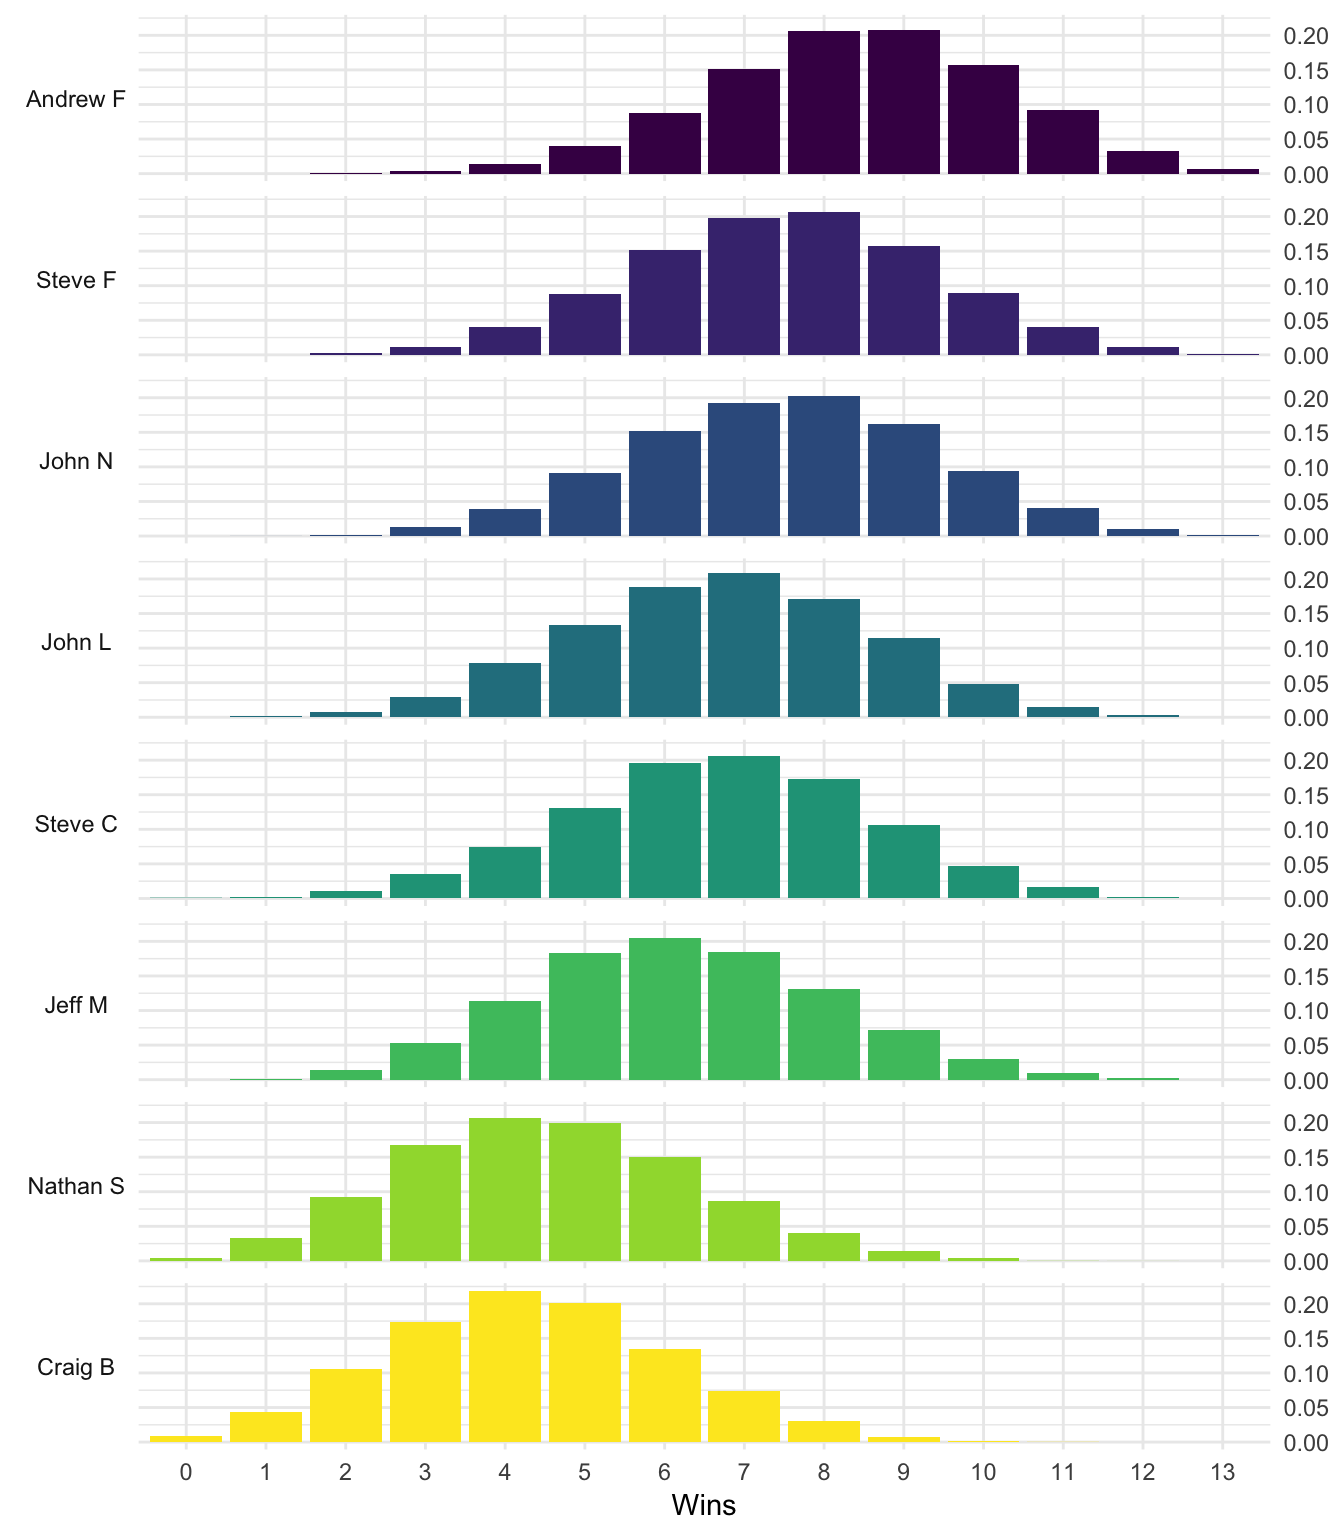
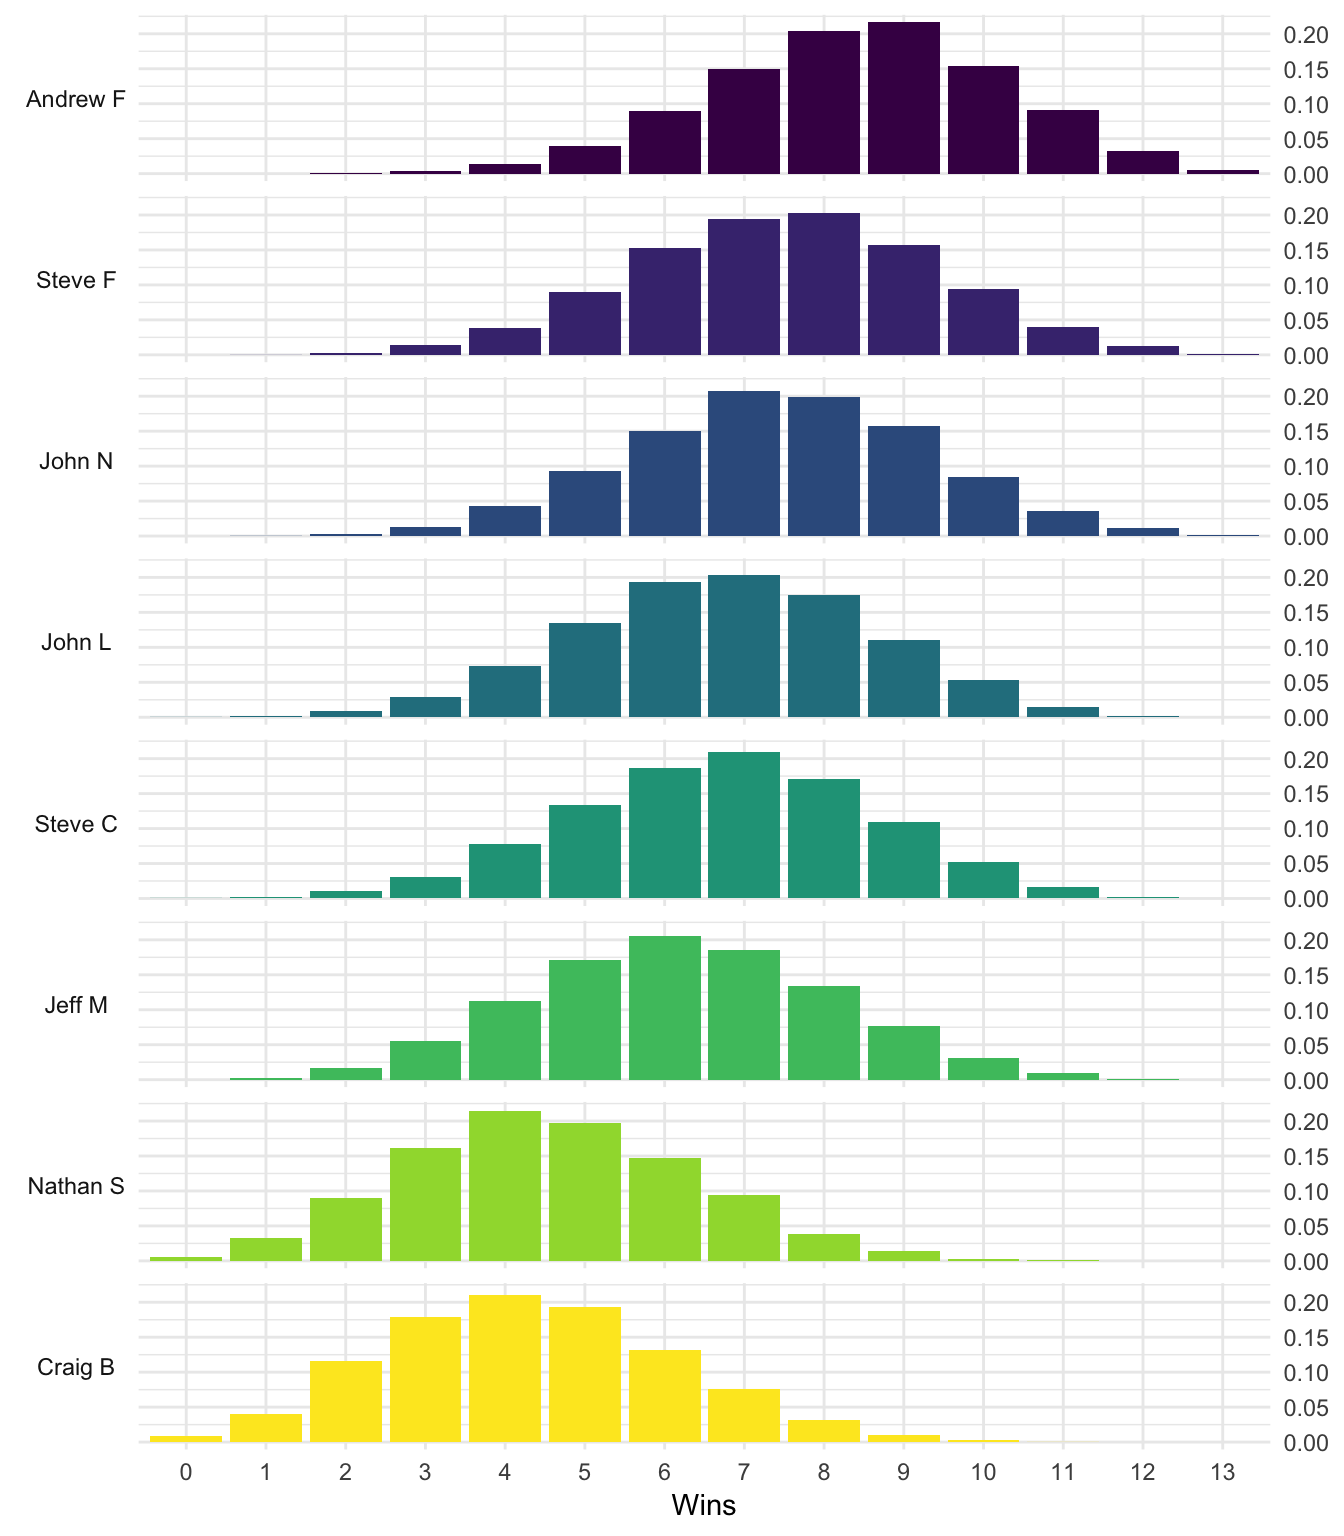
Tweak to simulation, reposting 2018 Week 1 update

diff --git a/content/post/2018-09-11-fantasy-football-elo-ratings-week-1-update.html b/content/post/2018-09-11-fantasy-football-elo-ratings-week-1-update.html
@@ -11,7 +11,7 @@ tags: []
 
 <div id="dashboard" class="section level2">
 <h2>Dashboard</h2>
-<p>Through 1 week, Andrew F is our most likely regular season champion, with a 43.52% chance of taking home the title.</p>
+<p>Through 1 week, Andrew F is our most likely regular season champion, with a 35% chance of taking home the title.</p>
 <table>
 <thead>
 <tr>
@@ -50,10 +50,10 @@ Andrew F
 1
 </td>
 <td style="text-align:center;">
-8.43
+8.44
 </td>
 <td style="text-align:center;">
-0.4352
+0.3496
 </td>
 </tr>
 <tr>
@@ -70,10 +70,10 @@ Steve C
 0
 </td>
 <td style="text-align:center;">
-6.70
+6.75
 </td>
 <td style="text-align:center;">
-0.1035
+0.1023
 </td>
 </tr>
 <tr>
@@ -90,10 +90,10 @@ John L
 0
 </td>
 <td style="text-align:center;">
-6.76
+6.77
 </td>
 <td style="text-align:center;">
-0.0870
+0.0994
 </td>
 </tr>
 <tr>
@@ -110,10 +110,10 @@ John N
 1
 </td>
 <td style="text-align:center;">
-7.51
+7.43
 </td>
 <td style="text-align:center;">
-0.1654
+0.1771
 </td>
 </tr>
 <tr>
@@ -133,7 +133,7 @@ Steve F
 7.51
 </td>
 <td style="text-align:center;">
-0.1537
+0.1827
 </td>
 </tr>
 <tr>
@@ -150,10 +150,10 @@ Jeff M
 1
 </td>
 <td style="text-align:center;">
-6.21
+6.23
 </td>
 <td style="text-align:center;">
-0.0454
+0.0711
 </td>
 </tr>
 <tr>
@@ -170,10 +170,10 @@ Nathan S
 0
 </td>
 <td style="text-align:center;">
-4.55
+4.56
 </td>
 <td style="text-align:center;">
-0.0062
+0.0096
 </td>
 </tr>
 <tr>
@@ -190,10 +190,10 @@ Craig B
 0
 </td>
 <td style="text-align:center;">
-4.32
+4.31
 </td>
 <td style="text-align:center;">
-0.0036
+0.0082
 </td>
 </tr>
 </tbody>

diff --git a/content/post/2015-12-22-solving-the-fivethirtyeight-puzzler-using-simulation.html b/content/post/2015-12-22-solving-the-fivethirtyeight-puzzler-using-simulation.html
@@ -29,7 +29,7 @@ tags: []
 }
 
 run_simulation(1e6)</code></pre>
-<pre><code>## [1] 8.995479</code></pre>
+<pre><code>## [1] 9.016318</code></pre>
 <p>Looks like the solution is 9 minutes. I submitted my answer, so we’ll see if I got it right!</p>
 <p><strong>Update 12/29/15</strong> - I got a shoutout for my correct submission! You can read the explanation of the full analytical solution <a href="https://fivethirtyeight.com/features/riddler-how-long-before-you-can-use-your-2015-calendar-again-riddler/">here</a>.</p>
 <center>
